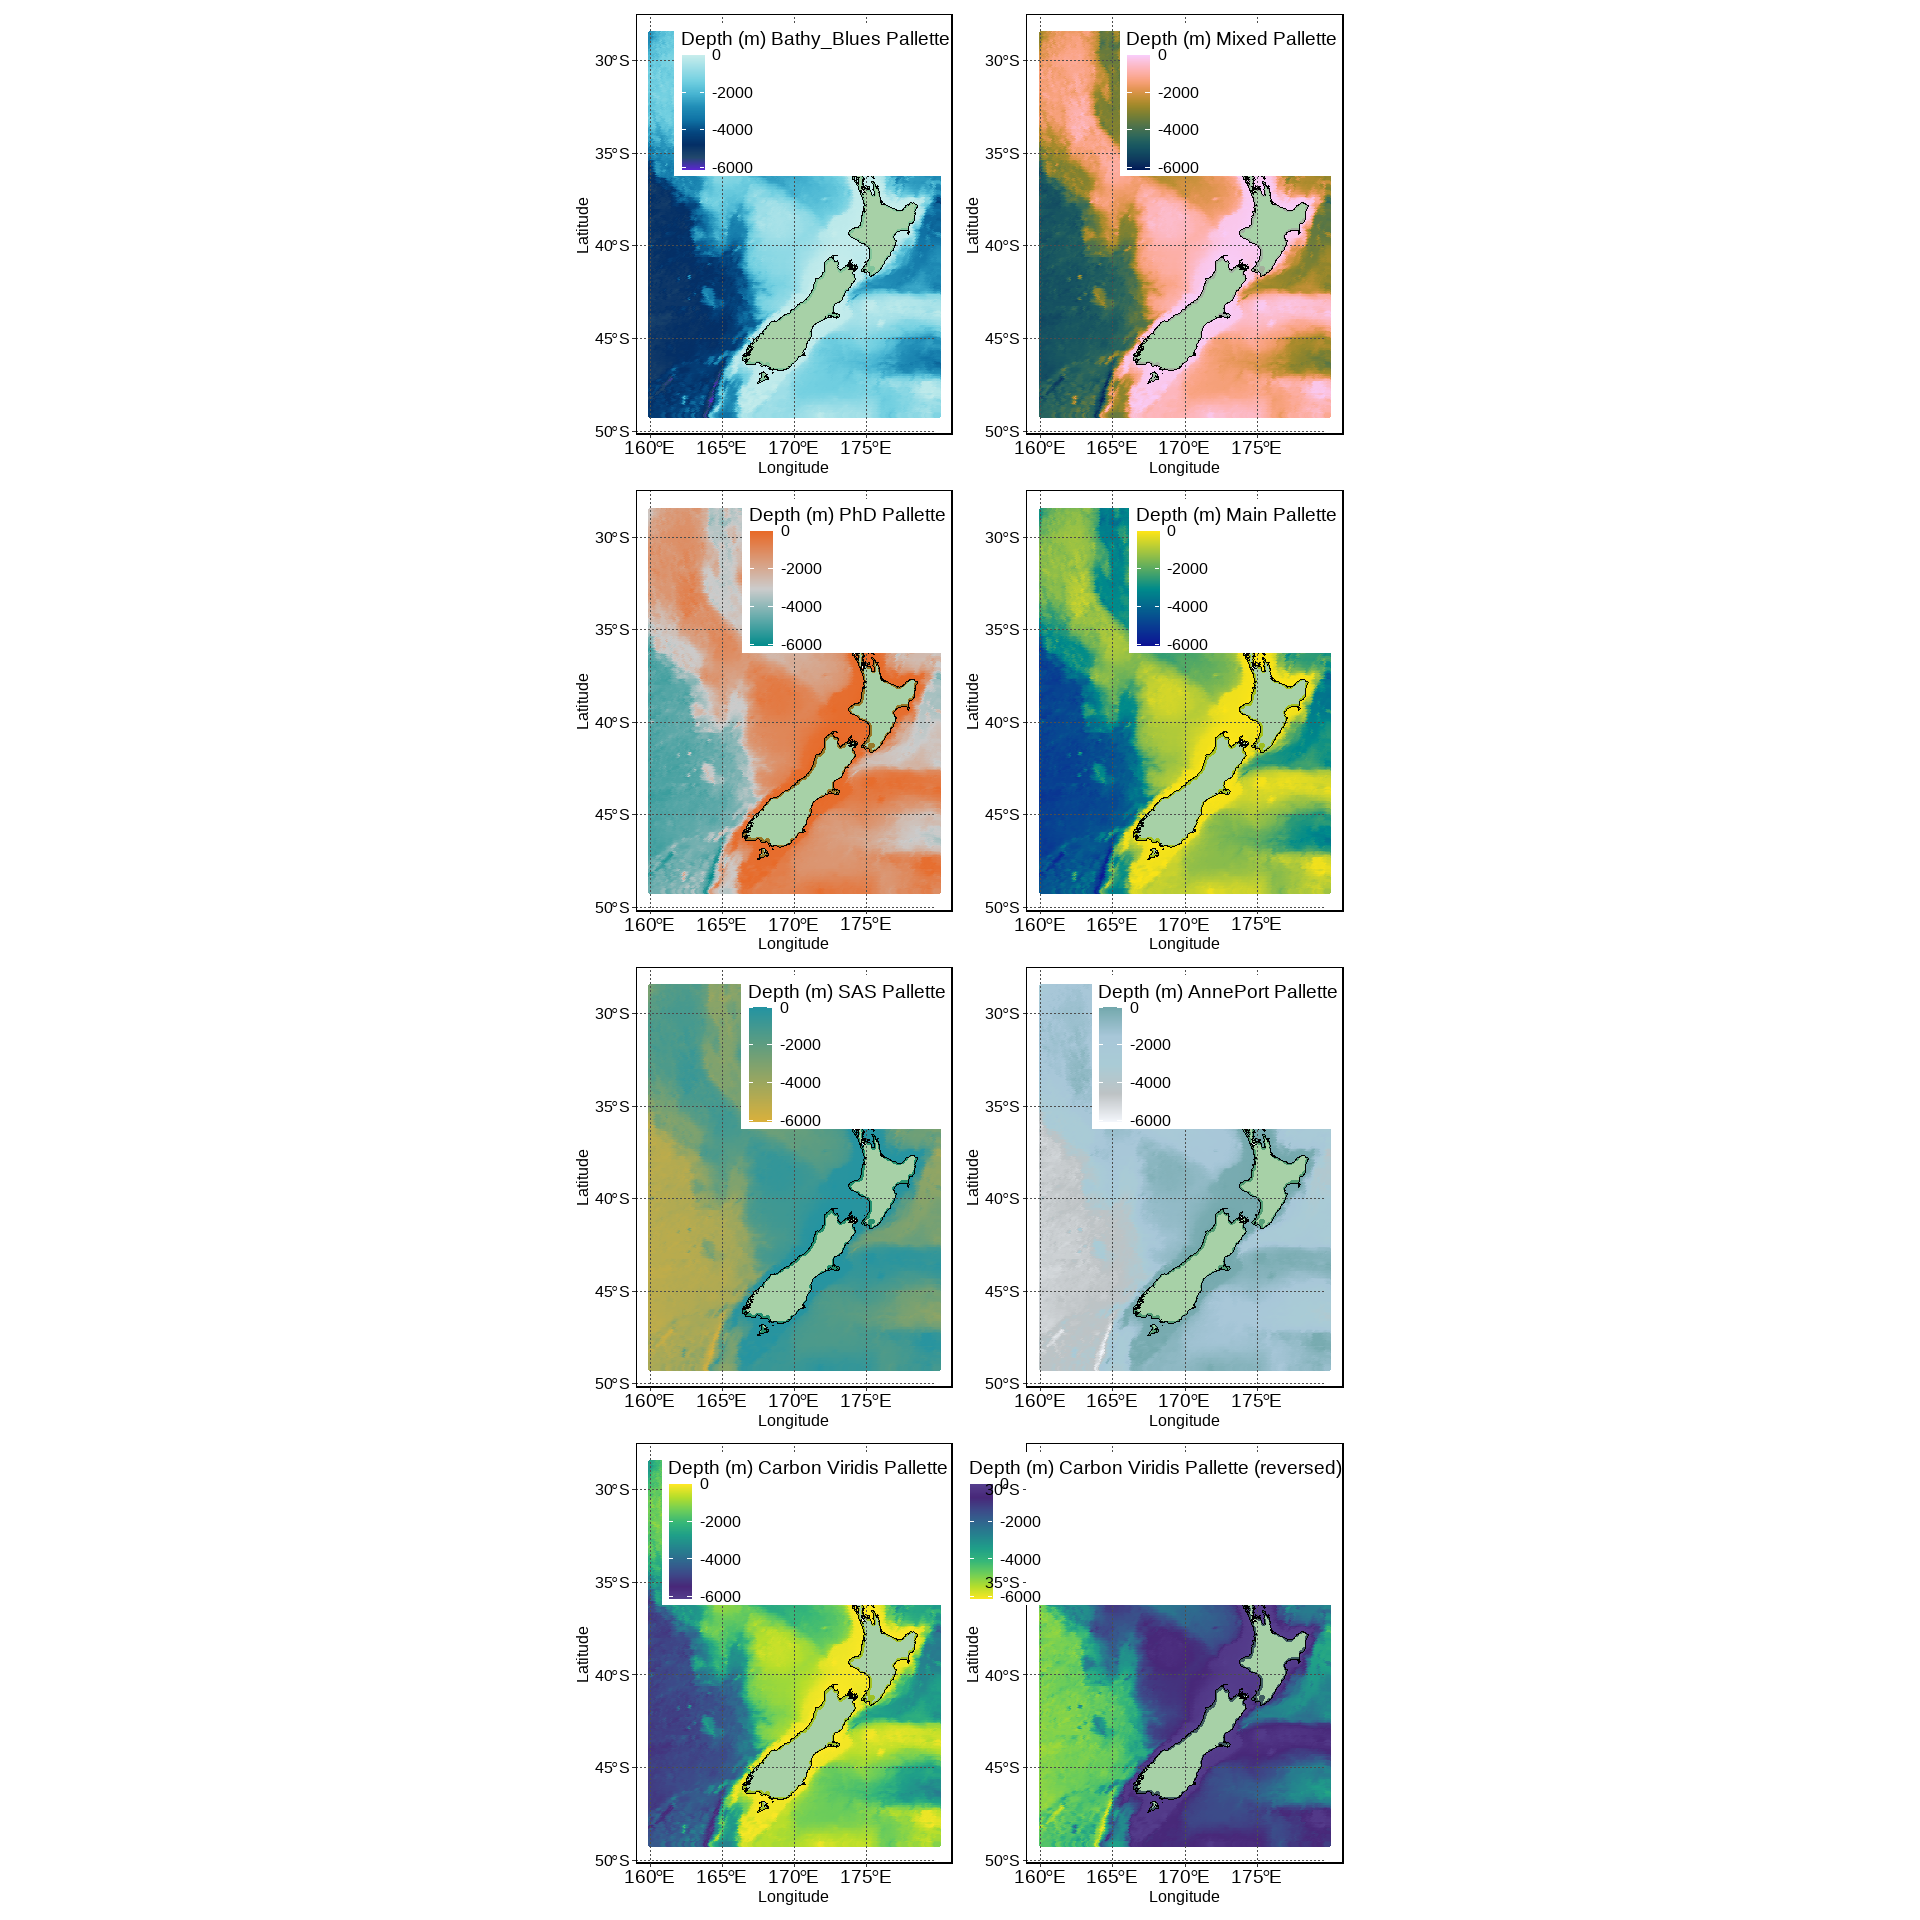
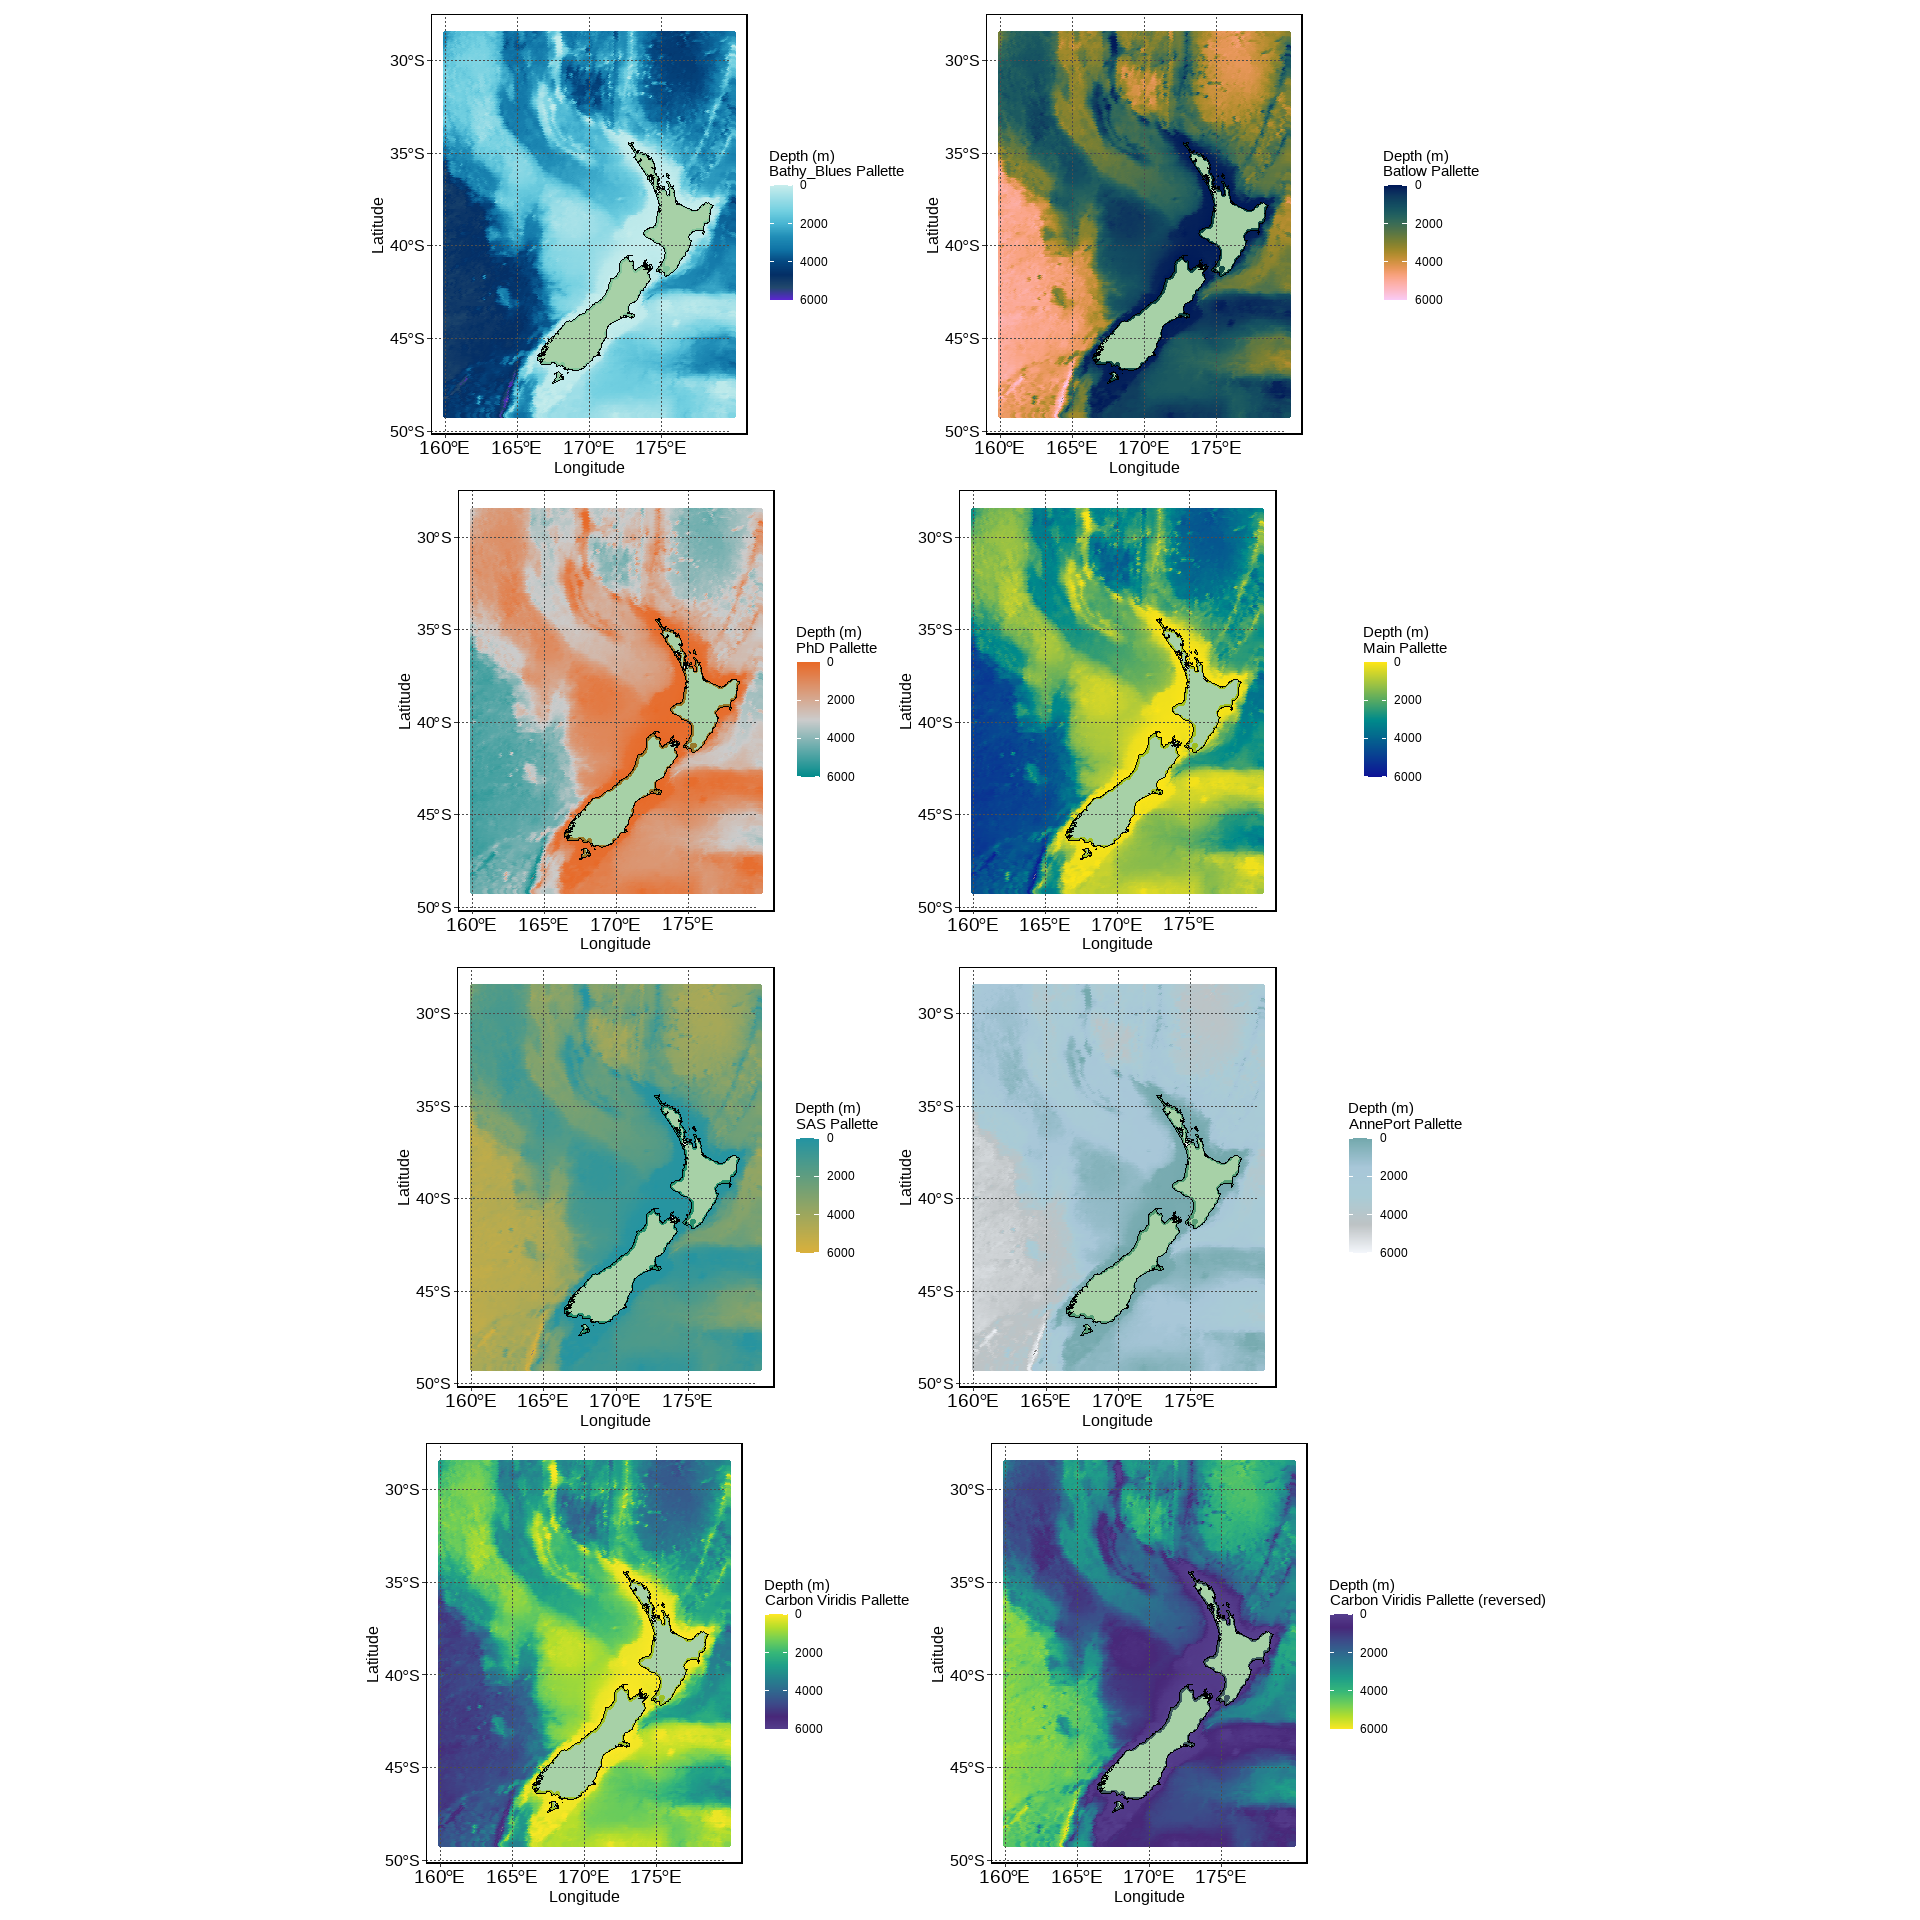
who puts the background infront?!?!

diff --git a/README.md b/README.md
@@ -280,8 +280,11 @@ map1<-ggplot()+
   geom_sf(data=sf_bathy,mapping=aes(colour=layer))+
   geom_polygon(data = nz, aes(x = long, y = lat, group = group),
                fill = "forestgreen", colour = "black",alpha=0.4)+
-  Utilities.Package::scale_colour_Bede(name="Depth (m) Bathy_Blues Pallette",'Bathy_Blues',
-                            discrete=FALSE,reverse=TRUE)+
+  Utilities.Package::scale_colour_Bede(name="Depth (m)\nBathy_Blues Pallette",'Bathy_Blues',
+                            discrete=FALSE,reverse=TRUE,
+                            limits=c(0,-6000),
+                            breaks=c(0,-2000,-4000,-6000),
+                            labels=c("0","2000","4000","6000"))+
   Utilities.Package::theme_Bede_Map()+
   labs(x="Longitude",
        y="Latitude")
@@ -290,7 +293,11 @@ map2<-ggplot()+
   geom_sf(data=sf_bathy,mapping=aes(colour=layer))+
   geom_polygon(data = nz, aes(x = long, y = lat, group = group),
                fill = "forestgreen", colour = "black",alpha=0.4)+
-  Utilities.Package::scale_colour_Bede(name="Depth (m) Mixed Pallette",'S2_Max_Batlow_Pink',discrete=FALSE)+
+  Utilities.Package::scale_colour_Bede(name="Depth (m)\nBatlow Pallette",'S2_Max_Batlow_Pink',
+                                       discrete=FALSE,reverse=TRUE,
+                            limits=c(0,-6000),
+                            breaks=c(0,-2000,-4000,-6000),
+                            labels=c("0","2000","4000","6000"))+
   Utilities.Package::theme_Bede_Map()+
   labs(x="Longitude",
        y="Latitude")
@@ -299,7 +306,11 @@ map3<-ggplot()+
   geom_sf(data=sf_bathy,mapping=aes(colour=layer))+
   geom_polygon(data = nz, aes(x = long, y = lat, group = group),
                fill = "forestgreen", colour = "black",alpha=0.4)+
-  Utilities.Package::scale_colour_Bede(name="Depth (m) PhD Pallette",'PhD',discrete=FALSE)+
+  Utilities.Package::scale_colour_Bede(name="Depth (m)\nPhD Pallette",'PhD',
+                                       discrete=FALSE,
+                            limits=c(0,-6000),
+                            breaks=c(0,-2000,-4000,-6000),
+                            labels=c("0","2000","4000","6000"))+
   Utilities.Package::theme_Bede_Map()+
   labs(x="Longitude",
        y="Latitude")
@@ -308,7 +319,11 @@ map4<-ggplot()+
   geom_sf(data=sf_bathy,mapping=aes(colour=layer))+
   geom_polygon(data = nz, aes(x = long, y = lat, group = group),
                fill = "forestgreen", colour = "black",alpha=0.4)+
-  Utilities.Package::scale_colour_Bede(name="Depth (m) Main Pallette",'main',discrete=FALSE)+
+  Utilities.Package::scale_colour_Bede(name="Depth (m)\nMain Pallette",'main',
+                                       discrete=FALSE,
+                            limits=c(0,-6000),
+                            breaks=c(0,-2000,-4000,-6000),
+                            labels=c("0","2000","4000","6000"))+
   Utilities.Package::theme_Bede_Map()+
   labs(x="Longitude",
        y="Latitude")
@@ -317,7 +332,11 @@ map5<-ggplot()+
   geom_sf(data=sf_bathy,mapping=aes(colour=layer))+
   geom_polygon(data = nz, aes(x = long, y = lat, group = group),
                fill = "forestgreen", colour = "black",alpha=0.4)+
-  Utilities.Package::scale_colour_Bede(name="Depth (m) SAS Pallette",'SAS',discrete=FALSE)+
+  Utilities.Package::scale_colour_Bede(name="Depth (m)\nSAS Pallette",'SAS',
+                                       discrete=FALSE,
+                            limits=c(0,-6000),
+                            breaks=c(0,-2000,-4000,-6000),
+                            labels=c("0","2000","4000","6000"))+
   Utilities.Package::theme_Bede_Map()+
   labs(x="Longitude",
        y="Latitude")
@@ -326,7 +345,11 @@ map6<-ggplot()+
   geom_sf(data=sf_bathy,mapping=aes(colour=layer))+
   geom_polygon(data = nz, aes(x = long, y = lat, group = group),
                fill = "forestgreen", colour = "black",alpha=0.4)+
-  Utilities.Package::scale_colour_Bede(name="Depth (m) AnnePort Pallette",'AnnePort',discrete=FALSE)+
+  Utilities.Package::scale_colour_Bede(name="Depth (m)\nAnnePort Pallette",'AnnePort',
+                                       discrete=FALSE,
+                            limits=c(0,-6000),
+                            breaks=c(0,-2000,-4000,-6000),
+                            labels=c("0","2000","4000","6000"))+
   Utilities.Package::theme_Bede_Map()+
   labs(x="Longitude",
        y="Latitude")
@@ -335,7 +358,10 @@ map7<-ggplot()+
   geom_sf(data=sf_bathy,mapping=aes(colour=layer))+
   geom_polygon(data = nz, aes(x = long, y = lat, group = group),
                fill = "forestgreen", colour = "black",alpha=0.4)+
-  Utilities.Package::scale_colour_Bede(name="Depth (m) Carbon Viridis Pallette",'Carbon_Viridis',discrete=FALSE)+
+  Utilities.Package::scale_colour_Bede(name="Depth (m)\nCarbon Viridis Pallette",'Carbon_Viridis',discrete=FALSE,
+                            limits=c(0,-6000),
+                            breaks=c(0,-2000,-4000,-6000),
+                            labels=c("0","2000","4000","6000"))+
   Utilities.Package::theme_Bede_Map()+
   labs(x="Longitude",
        y="Latitude")
@@ -344,7 +370,10 @@ map8<-ggplot()+
   geom_sf(data=sf_bathy,mapping=aes(colour=layer))+
   geom_polygon(data = nz, aes(x = long, y = lat, group = group),
                fill = "forestgreen", colour = "black",alpha=0.4)+
-  Utilities.Package::scale_colour_Bede(name="Depth (m) Carbon Viridis Pallette (reversed)",'Carbon_Viridis',discrete=FALSE,reverse = TRUE)+
+  Utilities.Package::scale_colour_Bede(name="Depth (m)\nCarbon Viridis Pallette (reversed)",'Carbon_Viridis',discrete=FALSE,reverse = TRUE,
+                            limits=c(0,-6000),
+                            breaks=c(0,-2000,-4000,-6000),
+                            labels=c("0","2000","4000","6000"))+
   Utilities.Package::theme_Bede_Map()+
   labs(x="Longitude",
        y="Latitude")